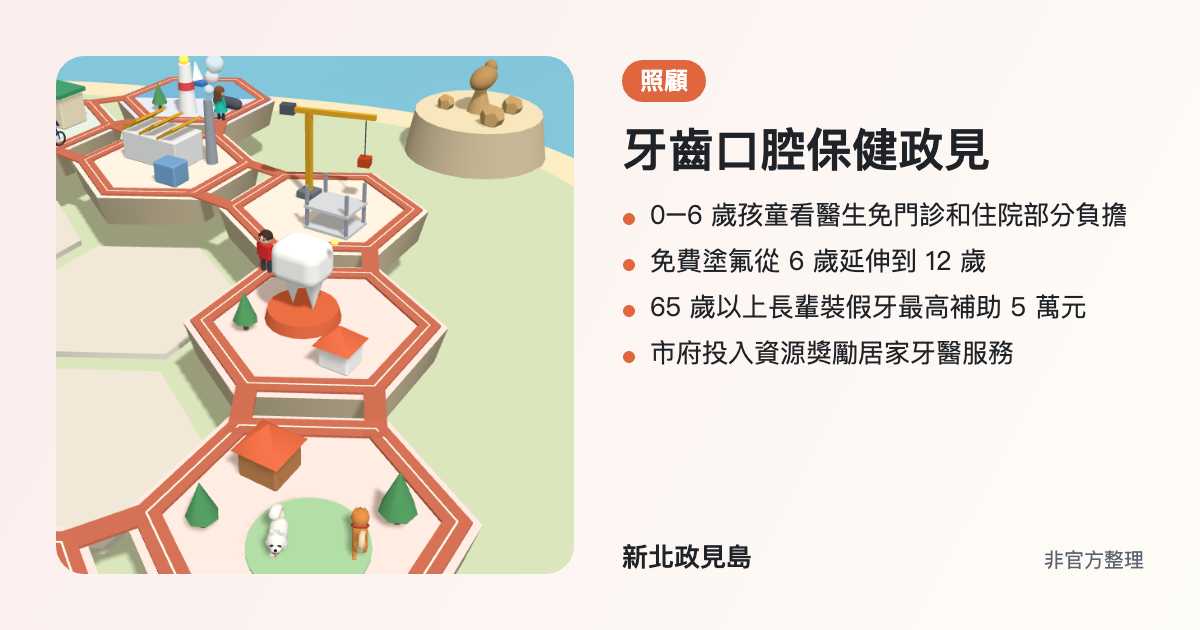
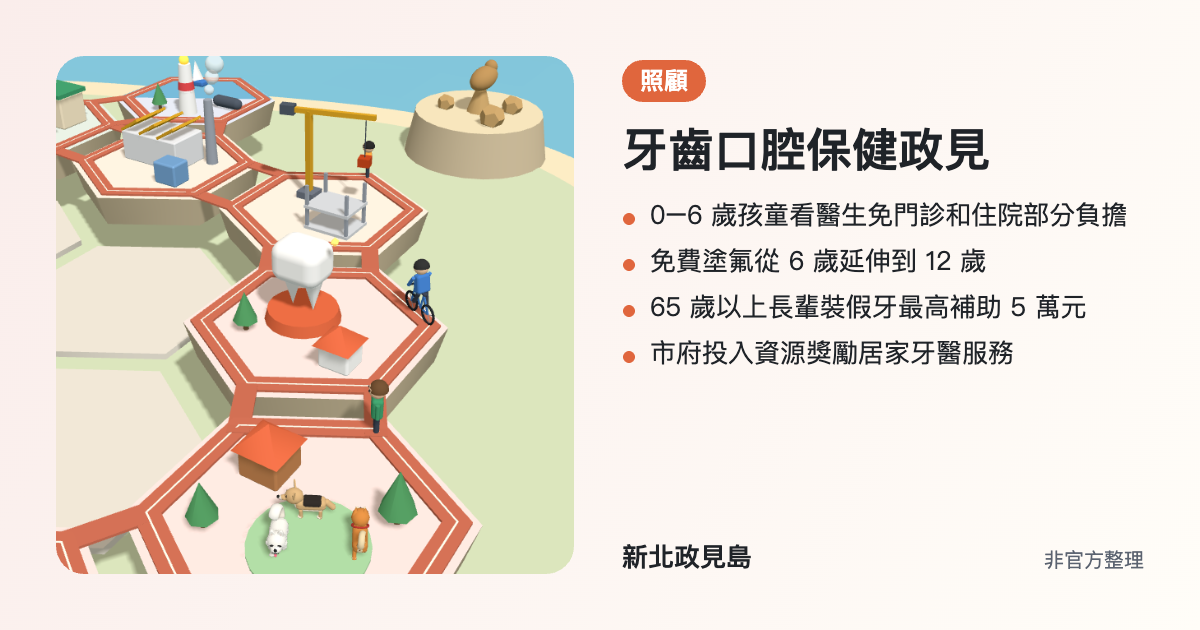
feat(pets): add a Taiwanese mixed-breed dog to the pets island
Slim fawn dog with a black saddle, tall splayed ears, a long muzzle greying
at the tip, cream chest and paws and a bushy low tail, modelled on the
owner's photos. Trots with the shiba and samoyed. Regenerate the previews
that show the pets island.

diff --git a/index.html b/index.html
@@ -1299,8 +1299,80 @@ const BUILDERS = {
       dog.tailBones = curl.bones;
       return dog;
     };
+    // Taiwanese mixed breed: slim fawn dog with a black saddle, tall ears set wide, a long muzzle greying at the
+    // tip, a cream chest and paws, and a bushy tail carried low
+    const mixDog = (color) => {
+      const dog = dogBase(color, { width: 0.16, height: 0.15, length: 0.38, round: 0.06, y: 0.19 });
+      const { d, head, legs, keep } = dog;
+      const cream = '#f1e6d2', saddle = '#2a2420', grey = '#d9d2c7';
+      head.scale.set(0.9, 0.92, 1.05); // narrower, longer skull than the Shiba's round head
+      // Black saddle over the back and down the upper flanks, a hair larger than the body so it reads as coat
+      // colour rather than a pad; the shoulders and rump stay fawn
+      const back = mesh(rbox(0.166, 0.11, 0.27, 0.055), saddle, 0, 0.217, 0.02);
+      d.add(back);
+      // Cream throat, chest and belly
+      const chest = mesh(new THREE.SphereGeometry(0.07, 12, 8), cream, 0, 0.18, -0.15);
+      chest.scale.set(1, 1.1, 0.8);
+      d.add(chest, mesh(rbox(0.13, 0.06, 0.26, 0.03), cream, 0, 0.125, 0.02));
+      // Long, tapering muzzle: fawn at the root, greying toward the black nose
+      const muzzle = mesh(new THREE.SphereGeometry(0.048, 14, 10), color, 0, 0.27, -0.3);
+      muzzle.scale.set(0.85, 0.75, 1.55);
+      const tip = mesh(new THREE.SphereGeometry(0.034, 12, 8), grey, 0, 0.265, -0.355);
+      tip.scale.set(0.95, 0.8, 1.2);
+      d.add(muzzle, tip);
+      d.add(noShadow(mesh(new THREE.SphereGeometry(0.019, 10, 8), '#111111', 0, 0.275, -0.393, { roughness: 0.35, metalness: 0.1 })));
+      // Open, smiling mouth with a little pink tongue (the first photo)
+      const mouth = noShadow(mesh(new THREE.SphereGeometry(0.022, 10, 6), '#3a2226', 0, 0.245, -0.352));
+      mouth.scale.set(1, 0.4, 1.3);
+      const tongue = noShadow(mesh(new THREE.SphereGeometry(0.015, 10, 6), '#f28b9a', 0, 0.238, -0.365));
+      tongue.scale.set(1, 0.5, 1.3);
+      d.add(mouth, tongue);
+      // Tall, wide-based ears set high and leaning out to the sides, rounded tips, pale inside
+      const earShape = new THREE.Shape();
+      earShape.moveTo(-0.04, 0);
+      earShape.lineTo(-0.012, 0.1);
+      earShape.quadraticCurveTo(0, 0.115, 0.012, 0.1);
+      earShape.lineTo(0.04, 0);
+      earShape.lineTo(-0.04, 0);
+      const earGeo = sharedGeo('mixEar', () => new THREE.ExtrudeGeometry(earShape, { depth: 0.012, bevelEnabled: true, bevelThickness: 0.004, bevelSize: 0.004, bevelSegments: 2, curveSegments: 6 }).translate(0, 0, -0.006));
+      const innerGeo = sharedGeo('mixEarInner', () => new THREE.ShapeGeometry(earShape, 6));
+      const eyeGeo = sharedGeo('mixEye', () => new THREE.SphereGeometry(0.014, 10, 8));
+      [-0.05, 0.05].forEach((x) => {
+        const side = Math.sign(x);
+        const ear = new THREE.Group();
+        ear.position.set(x * 1.35, 0.355, -0.19);
+        ear.rotation.z = -side * 0.55; // splayed out like the photos
+        ear.rotation.y = side * 0.25;
+        ear.add(mesh(earGeo, color));
+        const inner = noShadow(mesh(innerGeo, '#cfc3b8', 0, 0.01, -0.012));
+        inner.scale.setScalar(0.68);
+        inner.rotation.y = Math.PI;
+        ear.add(inner);
+        d.add(ear);
+        // Brown eyes with dark rims, set a little to the side above the long muzzle
+        const rim = noShadow(mesh(eyeGeo, '#1a1410', x * 0.85, 0.33, -0.288));
+        rim.scale.set(1.35, 1.05, 0.5);
+        const eye = noShadow(mesh(eyeGeo, '#4a2c18', x * 0.85, 0.33, -0.292, { roughness: 0.2 }));
+        eye.scale.set(1, 0.9, 0.5);
+        eye.add(noShadow(mesh(sharedGeo('catchLight', () => new THREE.SphereGeometry(0.0035, 6, 4)), '#ffffff', 0.004, 0.005, -0.011, { emissive: '#ffffff', emissiveIntensity: 0.6 })));
+        d.add(rim, eye);
+      });
+      // Cream paws
+      const paw = sharedGeo('mixPaw', () => new THREE.SphereGeometry(0.03, 8, 6).scale(1, 0.6, 1.1));
+      legs.forEach((leg) => leg.add(mesh(paw, cream, 0, -LEG + 0.018, -0.01)));
+      // Bushy fawn tail hanging low behind; its pivot is the single "bone" the shared wag animation swings
+      const tailPivot = new THREE.Group();
+      tailPivot.position.set(0, 0.23, 0.18);
+      const tail = mesh(sharedGeo('mixTail', () => new THREE.CapsuleGeometry(0.038, 0.11, 6, 10).translate(0, -0.075, 0)), color);
+      tail.rotation.x = -0.75; // back and down
+      tailPivot.add(tail);
+      d.add(tailPivot);
+      keep.add(tailPivot);
+      dog.tailBones = [tailPivot];
+      return dog;
+    };
     // Dogs run in circles around the lawn; the head points along -z, which is the tangent of a +y rotation
-    [[shibaDog, '#d98a3d', 0.6, 0], [samoyedDog, '#f8f7f2', 0.35, Math.PI]].forEach(([build, color, r, phase]) => {
+    [[shibaDog, '#d98a3d', 0.6, 0], [samoyedDog, '#f8f7f2', 0.35, Math.PI], [mixDog, '#d8b27e', 0.48, Math.PI / 2]].forEach(([build, color, r, phase]) => {
       const pivot = new THREE.Group();
       pivot.position.set(0.3, LAWN_TOP, 0.3);
       const { d, legs, keep, tailBones, update } = build(color);
